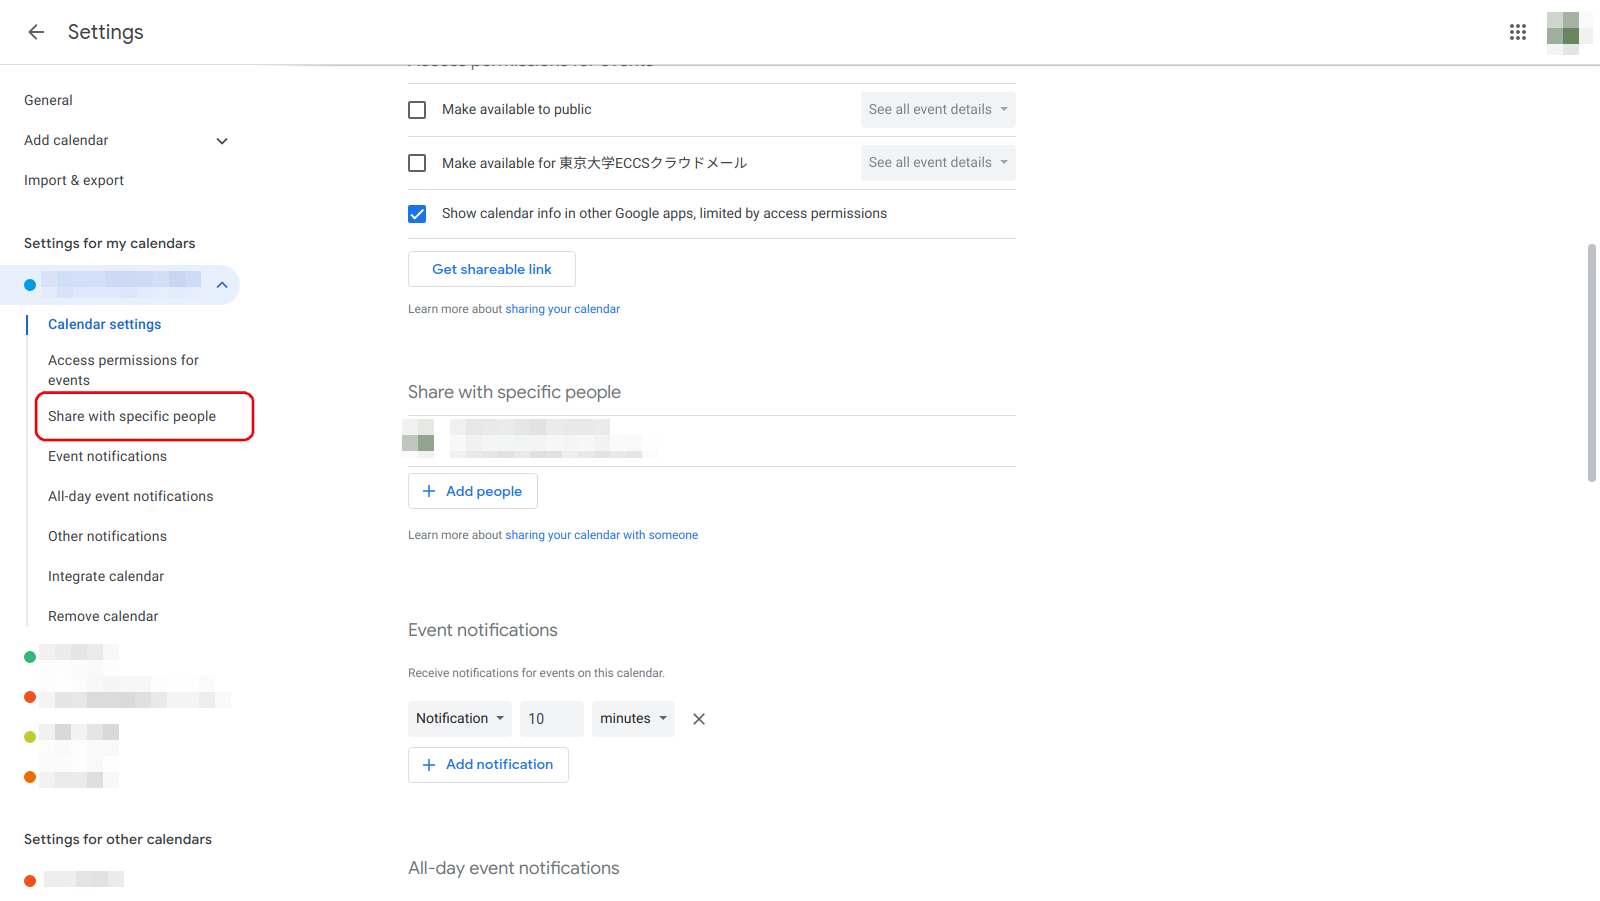
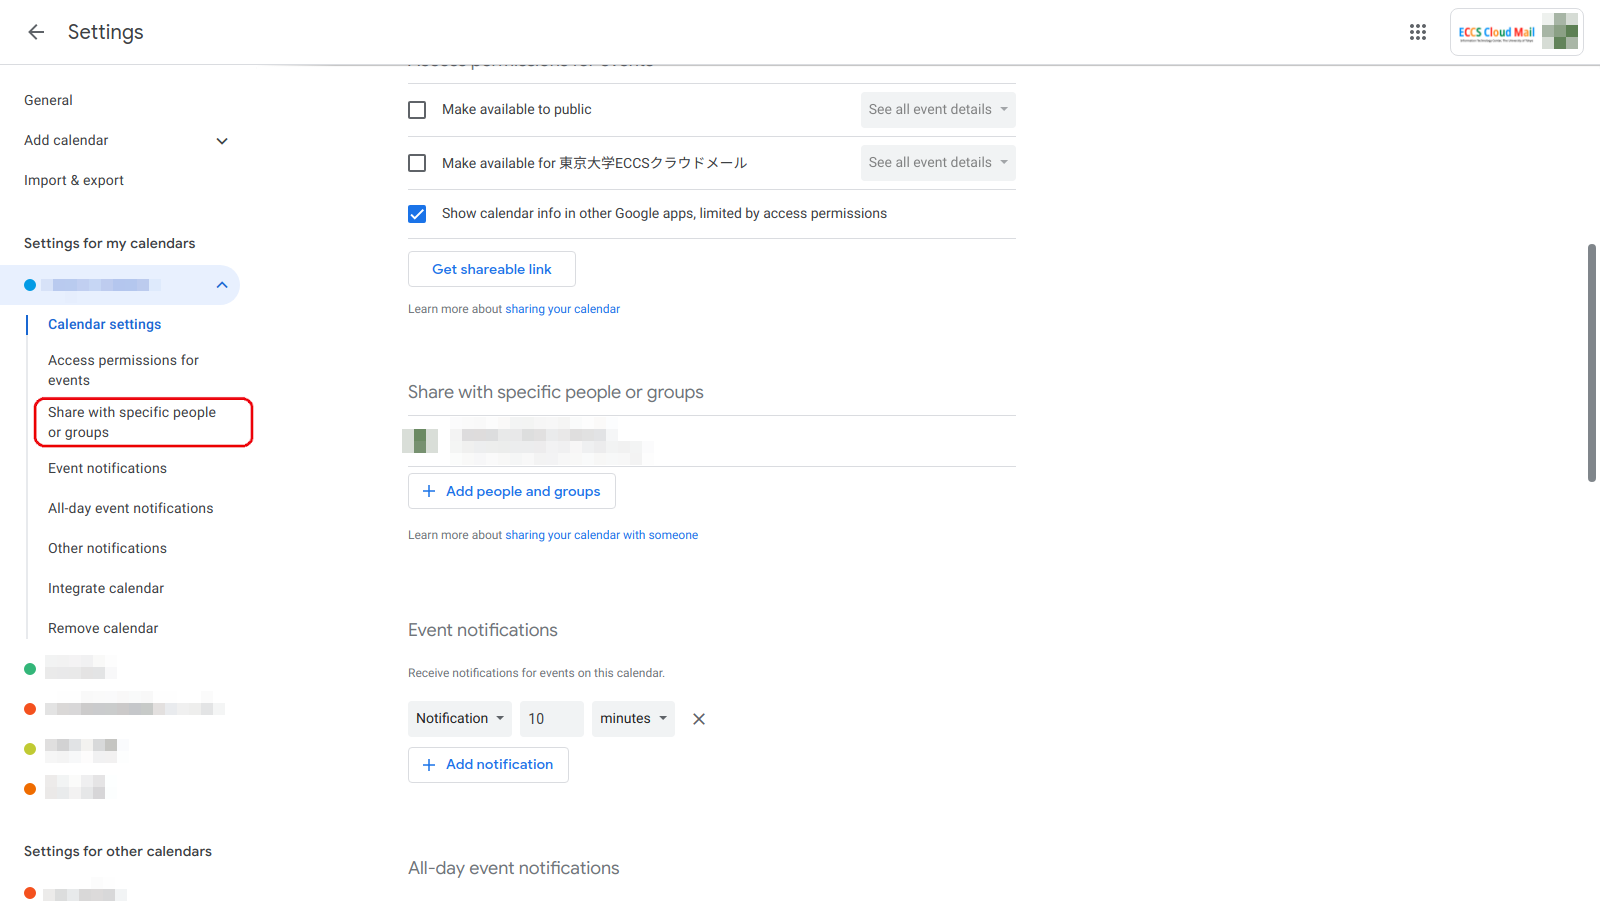
fix add people and groups

diff --git a/en/articles/schedule-management/index.md b/en/articles/schedule-management/index.md
@@ -240,7 +240,7 @@ If you have multiple Google accounts and use separate calendars for each account
 
 1. Open the Google Calendar of the account you want to share．
 2. Go to Settings and select the calendar you want to share.
-3. Select "Share with specific users" and click "+Add people".
+3. Select "Share with specific people or groups" and click "+Add people and groups".
    ![](img/authorization_settings.png)
 4. Enter the Google account you want to share and set the access rights to the calendar. There are four types of permissions.
 
